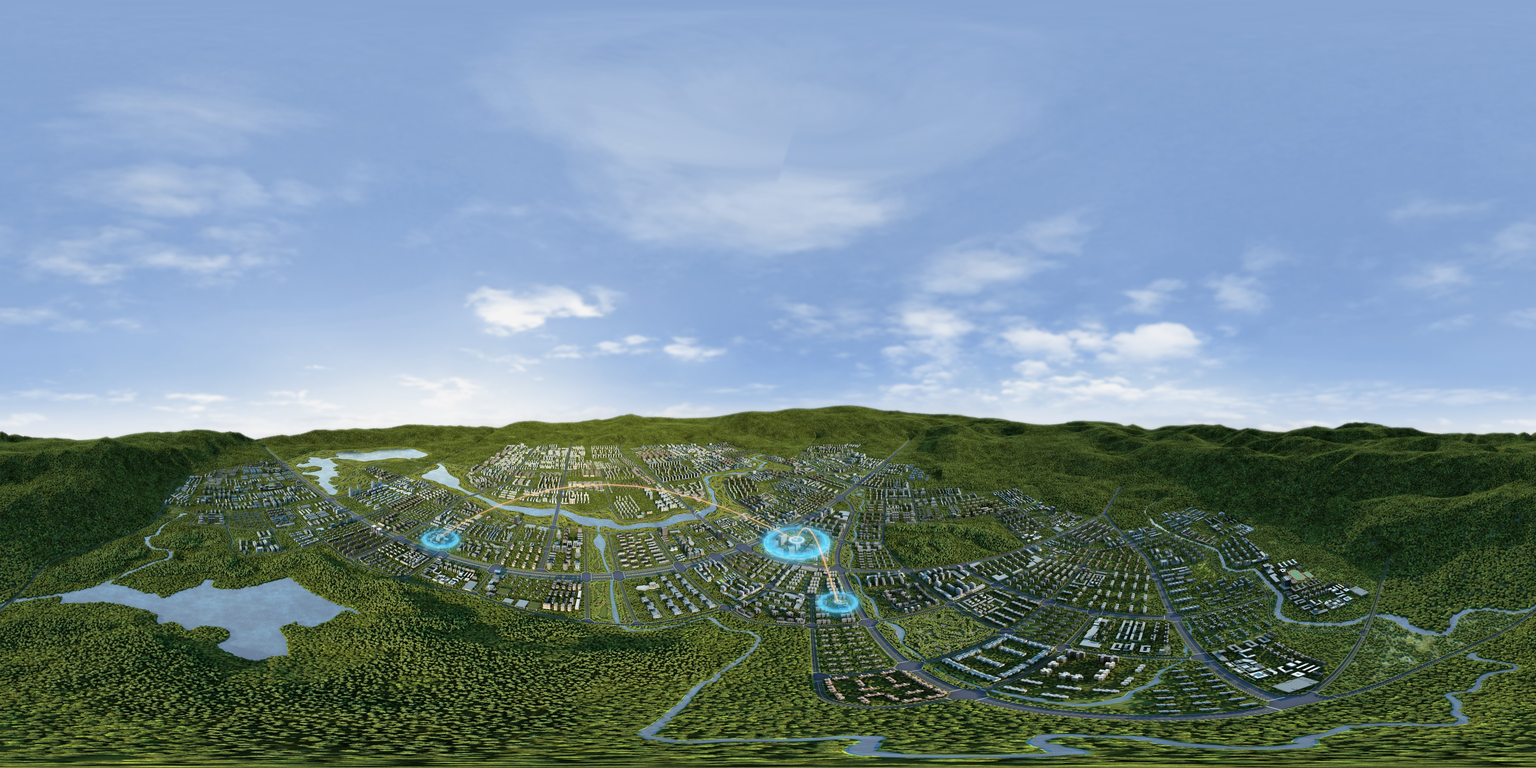
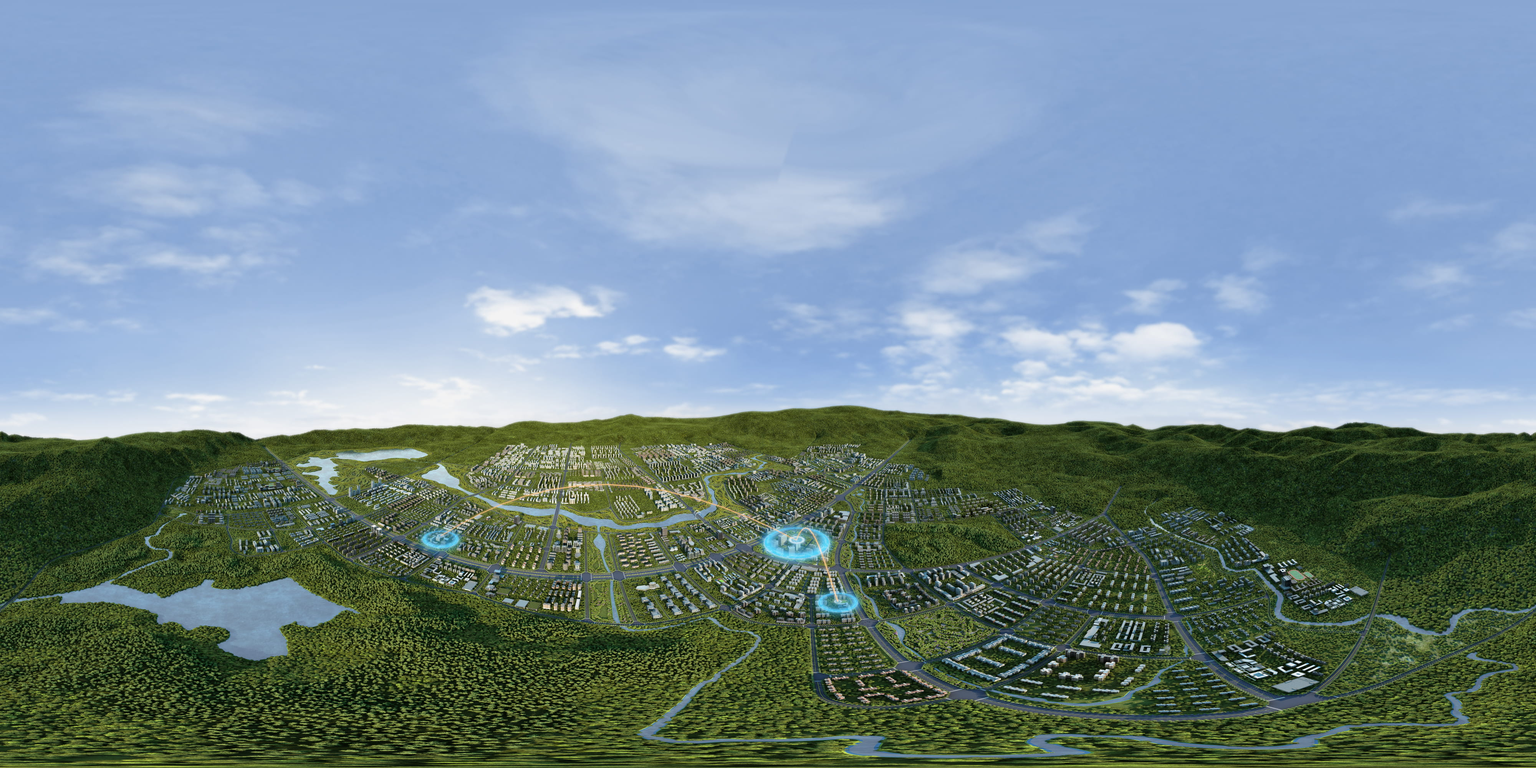
1.0

diff --git a/src/main/resources/static/css/panoramic.css b/src/main/resources/static/css/panoramic.css
@@ -148,7 +148,7 @@
     height: 17px;
     border: 0;
     padding: 10px;
-    margin-left: 45vw;
+    margin-right: 10vw;
     float: left;
     font-size: 12px;
     text-decoration: none;
@@ -174,14 +174,34 @@
     /*-webkit-animation: logoAnimate 2s infinite ease-in-out;*/
 }
 .logo-spot-img{
-    width: 40px;
-    /*animation: logoAnimate 2s infinite linear;*/
-    /*-webkit-animation: logoAnimate 2s infinite linear;*/
+    width: 50px;
+    transform: translateZ(1px);
+    animation: logoAnimate 2s infinite linear;
+    -webkit-animation: logoAnimate 2s infinite linear;
 }
 .spot-img{
-    width: 40px;
+    width: 30px;
+    margin-top: -7px;
+    transform: translateZ(1px);
+}
+.spot-img-logo{
+    width: 45px;
     margin-top: -7px;
     margin-left: -7px;
+    transform: translateZ(1px);
+    animation: logoAnimate 2s infinite linear;
+    -webkit-animation: logoAnimate 2s infinite linear;
+}
+.land-img{
+    width: 40px;
+    margin-top: -2px;
+    transform: translateZ(1px);
+}
+.nv-land-img{
+    width: 60px;
+    margin-top: -2px;
+    transform: scale(1.2) translateZ(1px);
+    background-color: rgba(0,0,0,0.8);
 }
 .room-navigate{
     display: none;
@@ -194,10 +214,10 @@
     cursor: pointer;
     pointer-events: auto;
     background-image: url(http://www.cq-rgb.com/rlsg3/skin/map/boxbg2.png);
-    width: 250px;
+    width: 275px;
     height: 273px;
     background-position: 0 0;
-    background-size: 250px 273px;
+    background-size: 275px 273px;
     transition-duration:500ms;
     transform: translateZ(1e+12px) translate(-250px, 2px) translate(-125px, -136.5px) rotate(0deg) translate(125px, 136.5px);
 }
@@ -208,10 +228,10 @@
     opacity: 1;
     cursor: default;
     pointer-events: auto;
-    width: 245px;
+    width: 270px;
     height: 238px;
     background-position: 0 0;
-    background-size: 245px 238px;
+    background-size: 270px 238px;
     transform: translateZ(1e+12px) translate(0px, 18px) translate(-122.5px, 0px) rotate(0deg) translate(122.5px, 0px);
 }
 .room-navigate-icon{
@@ -226,17 +246,47 @@
     height: 117px;
     background-position: 0px 0px;
     background-size: 39px 117px;
-    transform: translateZ(1e+12px) translate(206px, 0px) translate(19.5px, -58.5px) rotate(0deg) translate(18px, 58.5px);
+    transform: translateZ(1e+12px) translate(236px, 0px) translate(19.5px, -58.5px) rotate(0deg) translate(18px, 58.5px);
 }
 
 .navigate-position{
     display: inline-block;
     background-repeat: no-repeat;
     background-position: center;
-    background-size: 80%;
+    background-size: 70%;
     margin: 2px;
-    width: 30px;
+    width: 34.5px;
     height: 30px;
+}
+.nav-pos-simple3[number="45"]{
+    transform: translateY(-20px);
+}
+.nav-pos-simple3[number="13"]{
+    transform: translateX(-15px);
+}
+.nav-pos-simple3[number="36"]{
+    transform: translate(10px,-10px);
+}
+.nav-pos-simple4[number="24"]{
+    transform: translate(-10px,-10px);
+}
+.nav-pos-simple4[number="26"]{
+    transform: translate(-15px,-12px);
+}
+.nav-pos-simple4[number="13"]{
+    transform: translateX(-15px);
+}
+.nav-pos-simple4[number="12"]{
+    transform: translateX(-20px);
+}
+.nav-pos-simple4[number="11"]{
+    transform: translateX(-17px);
+}
+.nav-pos-simple4[number="9"]{
+    transform: translateX(-17px);
+}
+.nav-pos-simple4[number="9"]{
+    transform: translateX(-25px);
 }
 .home-img-container{
     position: absolute;
@@ -250,6 +300,25 @@
     flex-direction: column;
     justify-content: center;
     align-items: center;
+    background-image: url("/img/home.jpg");
+    background-size: 100%;
+    background-repeat: no-repeat;
+    background-position: center;
+    background-color: black;
+}
+.ad-img-container{
+    display: none;
+    position: absolute;
+    left: 0;
+    top: 0;
+    z-index: 9981;
+    width: 100vw;
+    height: 100vh;
+    background-image: url("/img/ad.jpg");
+    background-size: 100%;
+    background-repeat: no-repeat;
+    background-position: center;
+    background-color: black;
 }
 #home-img{
     position: absolute;
@@ -327,30 +396,32 @@
     -webkit-animation-delay:0.65s;
 }
 .simple-hotspot{
-    height: 70px;
+    font-size: 0.7em;
     color: #ffffff;
     text-align: center;
+    display: flex;
+    flex-direction: column;
+    align-items: center;
 }
-.simple-hotspot>div{
-    border: 2px solid #ffffff;
-    border-radius: 10px;
+.simple-hotspot>.icon-text{
+    border: 1px solid #ffffff;
     background-color: rgba(0,0,0,0.5);
     padding: 0 5px;
 }
 .forward-hotspot{
-    background: url(/img/simpleImg/forward.png) no-repeat;
-    background-size: 100%;
-    background-position-y: 10px;
+    /*background: url(/img/simpleImg/forward.png) no-repeat;*/
+    /*background-size: 100%;*/
+    /*background-position-y: 10px;*/
 }
 .right-hotspot{
-    background: url(/img/simpleImg/turnRight.png) no-repeat;
-    background-size: 100%;
-    background-position-y: 10px;
+    /*background: url(/img/simpleImg/turnRight.png) no-repeat;*/
+    /*background-size: 100%;*/
+    /*background-position-y: 10px;*/
 }
 .left-hotspot{
-    background: url(/img/simpleImg/turnLeft.png) no-repeat;
-    background-size: 100%;
-    background-position-y: 10px;
+    /*background: url(/img/simpleImg/turnLeft.png) no-repeat;*/
+    /*background-size: 100%;*/
+    /*background-position-y: 10px;*/
 }
 
 @keyframes imgTwinkle {

diff --git a/src/main/resources/static/js/pannellum.js b/src/main/resources/static/js/pannellum.js
@@ -73,7 +73,7 @@ var config,
 
 var defaultConfig = {
     hfov: 110,
-    minHfov: 50,
+    minHfov: 30,
     multiResMinHfov: false,
     maxHfov: 120,
     pitch: 0,
@@ -418,6 +418,7 @@ function init() {
                         numerator = e.loaded;
                         denominator = e.total;
                     }
+                    peogressHander(percent);
                     infoDisplay.load.msg.innerHTML = numerator + ' / ' + denominator + ' ' + unit;
                 } else {
                     // Display loading spinner

diff --git a/src/main/java/com/zf/zjtf/Panoramic.java b/src/main/java/com/zf/zjtf/Panoramic.java
@@ -17,8 +17,8 @@ import java.util.Map;
 public class Panoramic {
     @RequestMapping(value = {"","/","/home"})
     public ModelAndView getParamDemo1 () throws Exception {
-        //JSONObject wxConfig = WxApiUtil.createWxConfig();
         ModelAndView modelAndView = new ModelAndView();
+        //JSONObject wxConfig = WxApiUtil.createWxConfig();
         modelAndView.setViewName("panoramic");
 //        Iterator iter = wxConfig.entrySet().iterator();
 //        while (iter.hasNext()) {
